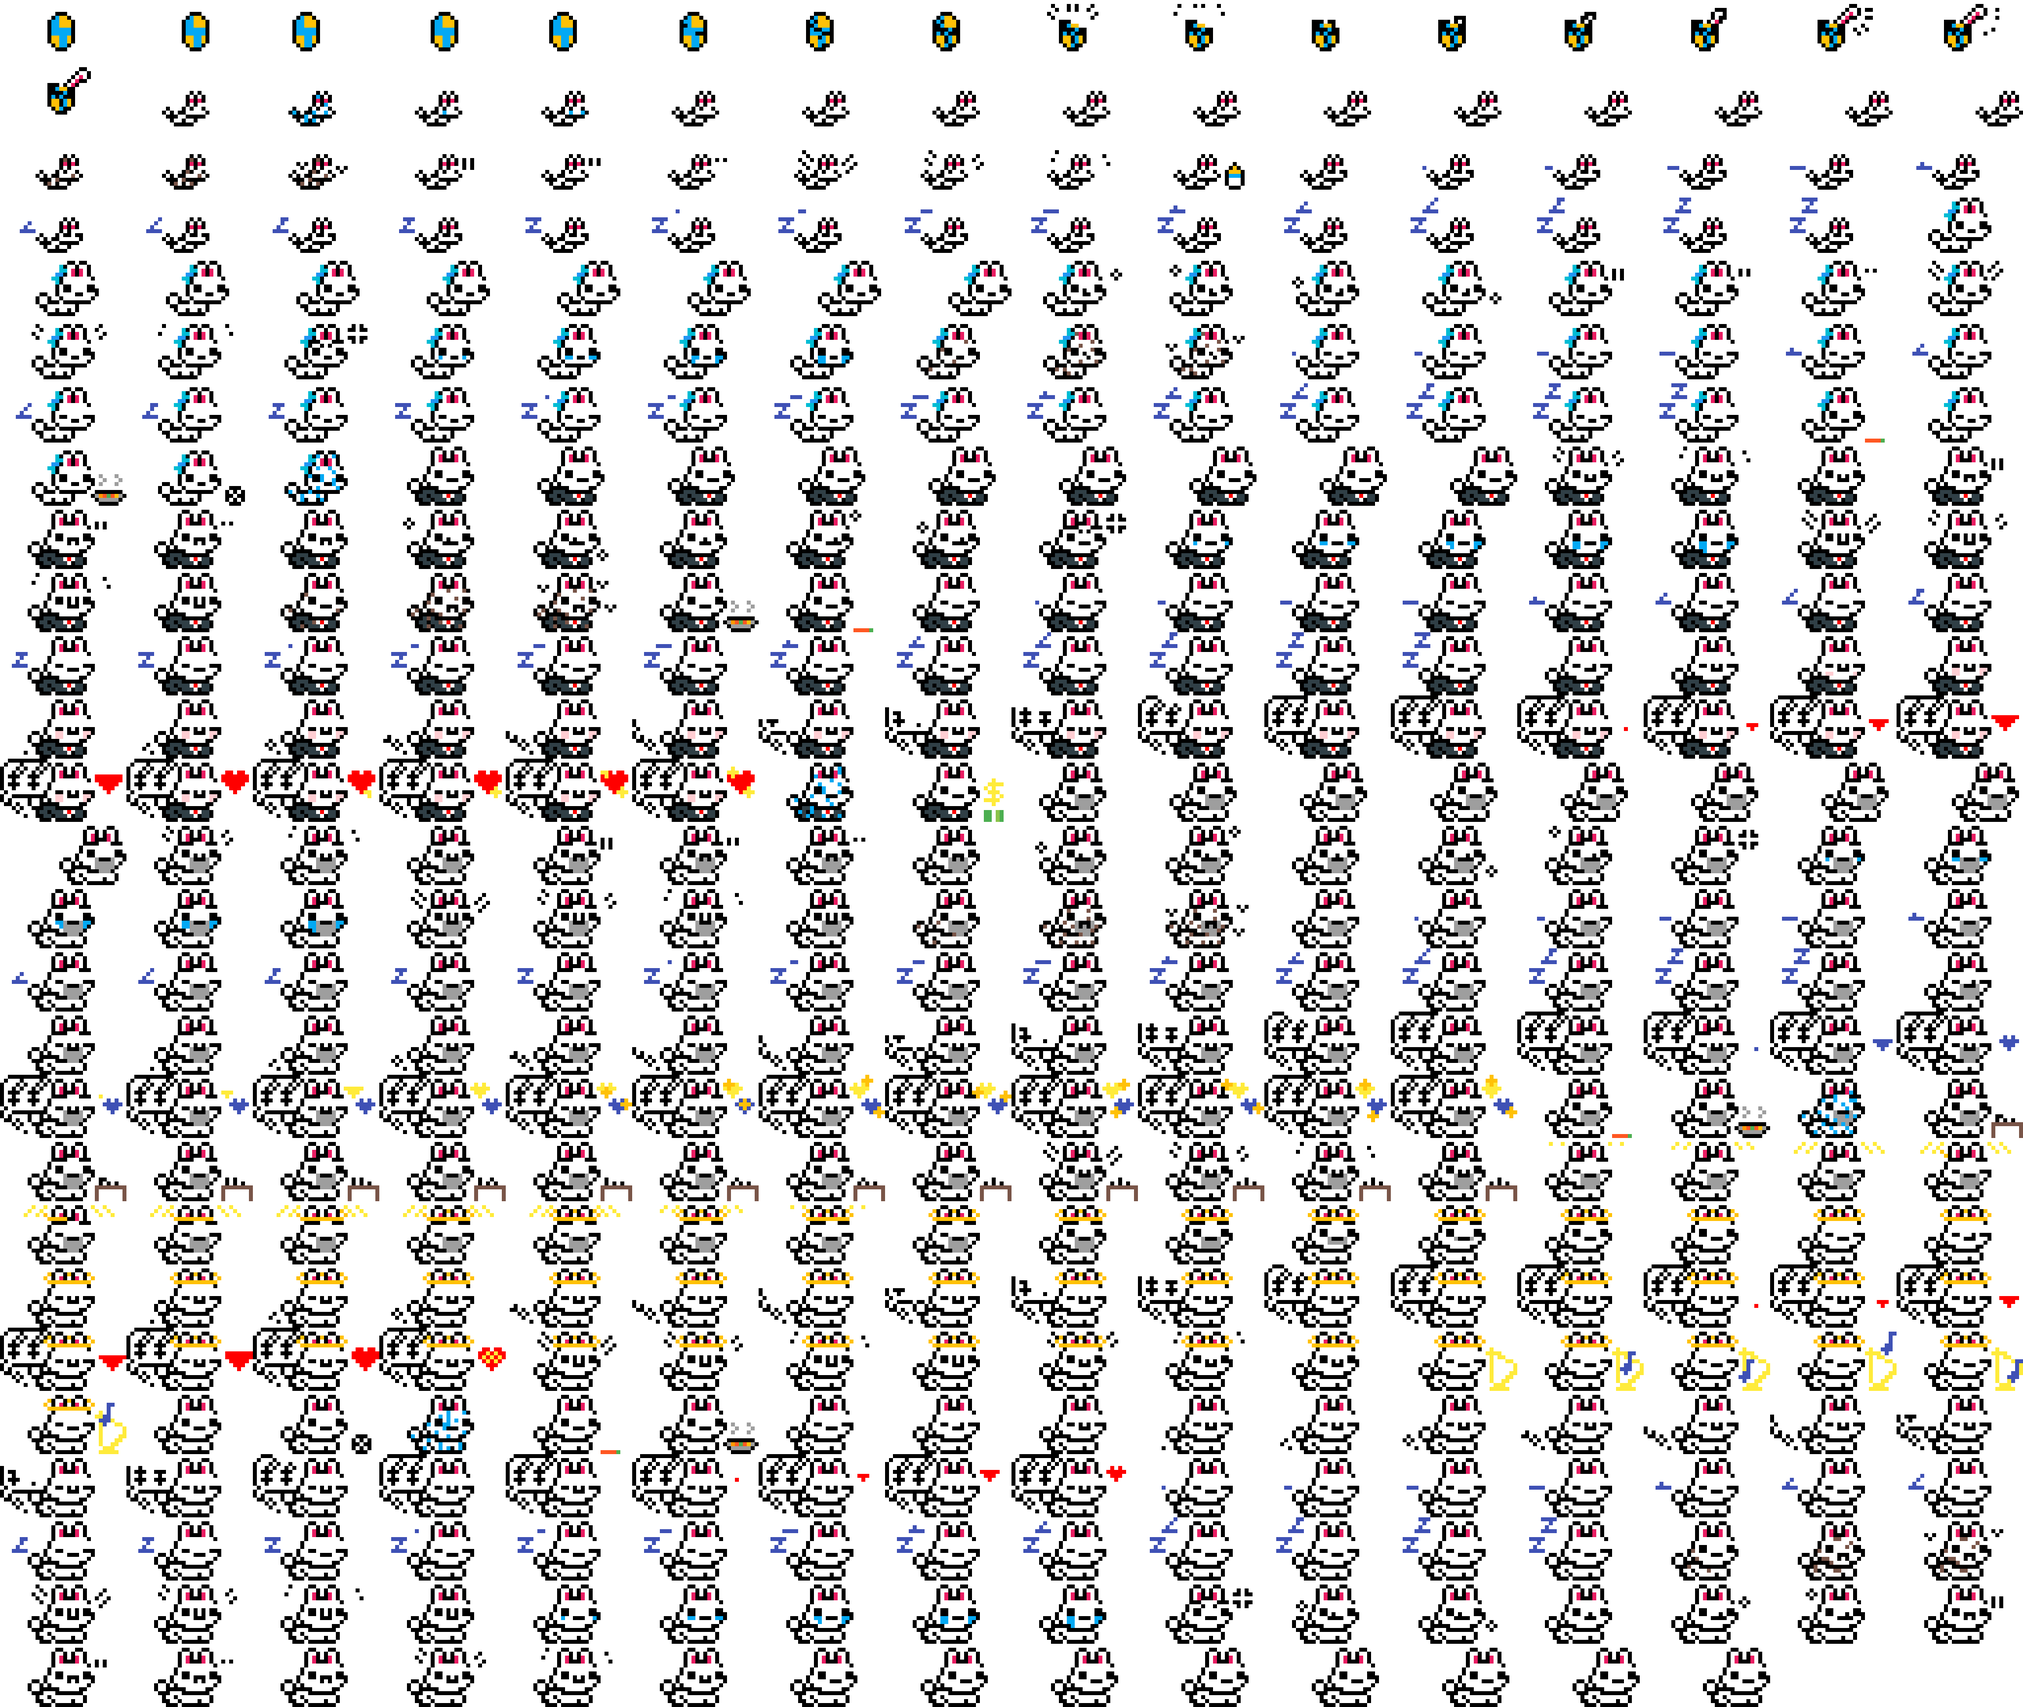
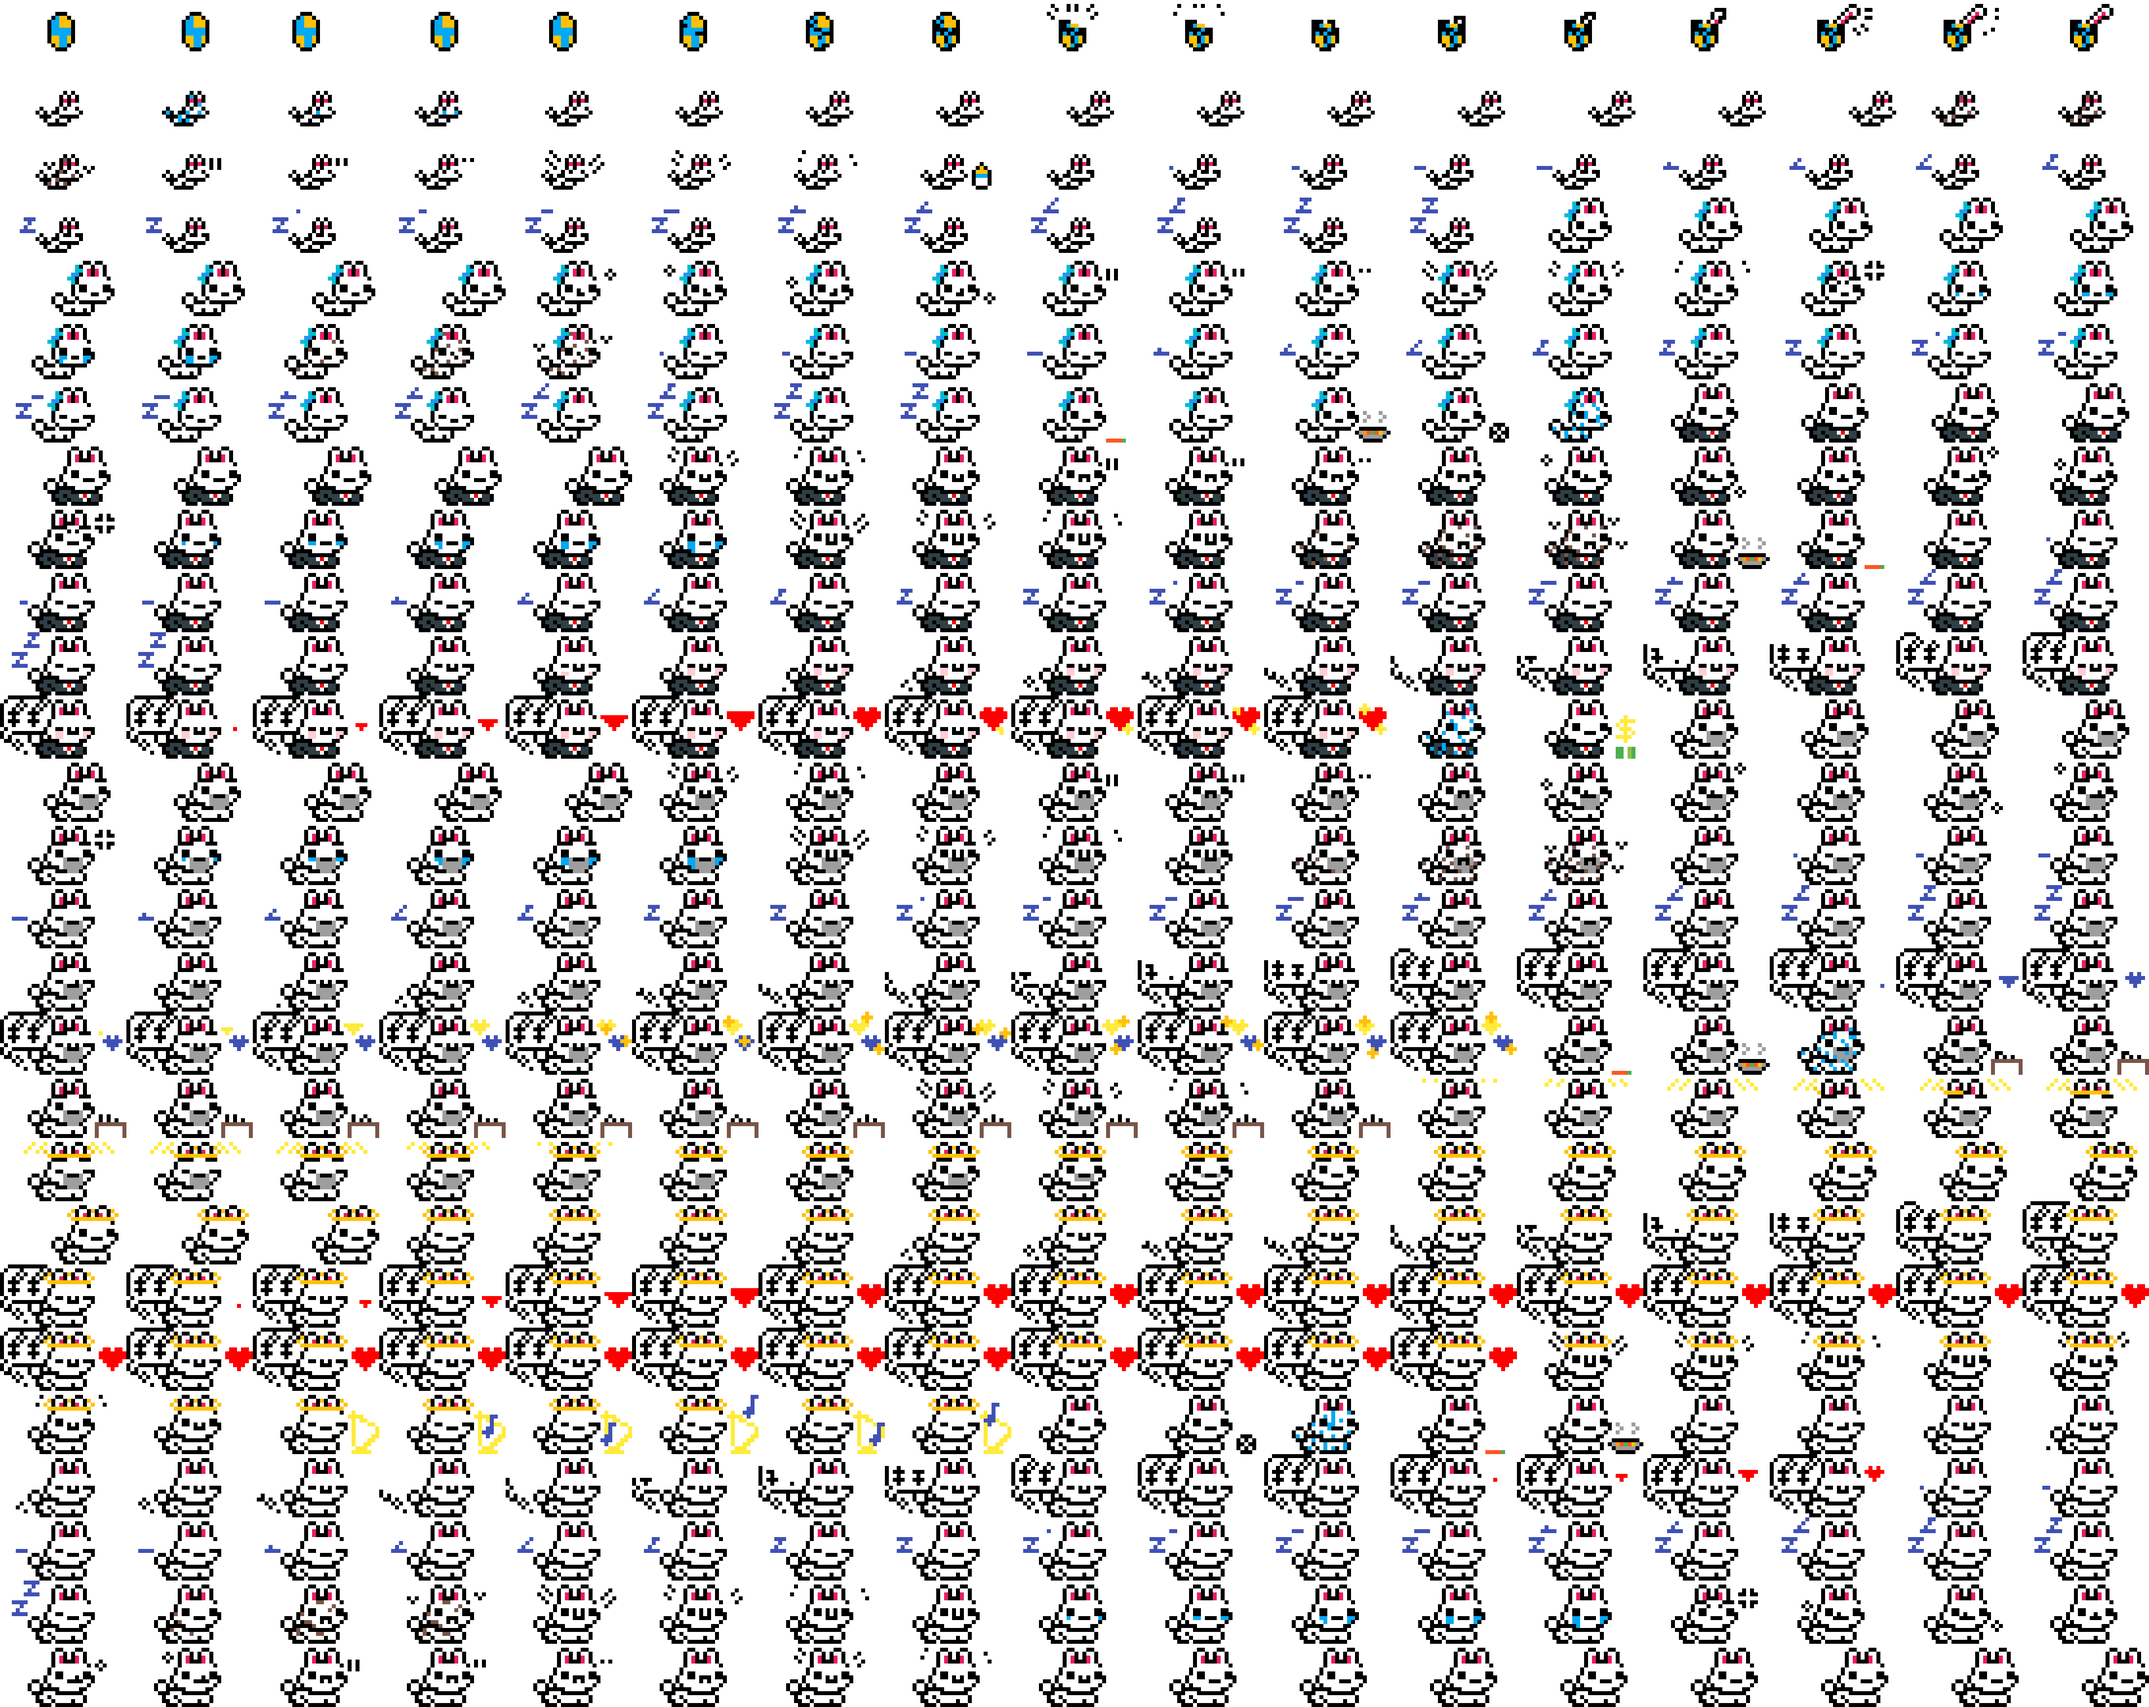
fix: change spritesheet creation method

diff --git a/assets/tailwind.css b/assets/tailwind.css
@@ -160,21 +160,34 @@
   .visible {
     visibility: visible;
   }
-  .flex {
-    display: flex;
+  .static {
+    position: static;
+  }
+  .table {
+    display: table;
   }
   .w-full {
     width: 100%;
   }
+  .border-collapse {
+    border-collapse: collapse;
+  }
   .transform {
     transform: var(--tw-rotate-x,) var(--tw-rotate-y,) var(--tw-rotate-z,) var(--tw-skew-x,) var(--tw-skew-y,);
+  }
+  .resize {
+    resize: both;
+  }
+  .border {
+    border-style: var(--tw-border-style);
+    border-width: 1px;
+  }
+  .underline {
+    text-decoration-line: underline;
   }
   .outline {
     outline-style: var(--tw-outline-style);
     outline-width: 1px;
-  }
-  .filter {
-    filter: var(--tw-blur,) var(--tw-brightness,) var(--tw-contrast,) var(--tw-grayscale,) var(--tw-hue-rotate,) var(--tw-invert,) var(--tw-saturate,) var(--tw-sepia,) var(--tw-drop-shadow,);
   }
 }
 @property --tw-rotate-x {
@@ -197,63 +210,15 @@
   syntax: "*";
   inherits: false;
 }
-@property --tw-outline-style {
+@property --tw-border-style {
   syntax: "*";
   inherits: false;
   initial-value: solid;
 }
-@property --tw-blur {
+@property --tw-outline-style {
   syntax: "*";
   inherits: false;
-}
-@property --tw-brightness {
-  syntax: "*";
-  inherits: false;
-}
-@property --tw-contrast {
-  syntax: "*";
-  inherits: false;
-}
-@property --tw-grayscale {
-  syntax: "*";
-  inherits: false;
-}
-@property --tw-hue-rotate {
-  syntax: "*";
-  inherits: false;
-}
-@property --tw-invert {
-  syntax: "*";
-  inherits: false;
-}
-@property --tw-opacity {
-  syntax: "*";
-  inherits: false;
-}
-@property --tw-saturate {
-  syntax: "*";
-  inherits: false;
-}
-@property --tw-sepia {
-  syntax: "*";
-  inherits: false;
-}
-@property --tw-drop-shadow {
-  syntax: "*";
-  inherits: false;
-}
-@property --tw-drop-shadow-color {
-  syntax: "*";
-  inherits: false;
-}
-@property --tw-drop-shadow-alpha {
-  syntax: "<percentage>";
-  inherits: false;
-  initial-value: 100%;
-}
-@property --tw-drop-shadow-size {
-  syntax: "*";
-  inherits: false;
+  initial-value: solid;
 }
 @layer properties {
   @supports ((-webkit-hyphens: none) and (not (margin-trim: inline))) or ((-moz-orient: inline) and (not (color:rgb(from red r g b)))) {
@@ -263,20 +228,8 @@
       --tw-rotate-z: initial;
       --tw-skew-x: initial;
       --tw-skew-y: initial;
+      --tw-border-style: solid;
       --tw-outline-style: solid;
-      --tw-blur: initial;
-      --tw-brightness: initial;
-      --tw-contrast: initial;
-      --tw-grayscale: initial;
-      --tw-hue-rotate: initial;
-      --tw-invert: initial;
-      --tw-opacity: initial;
-      --tw-saturate: initial;
-      --tw-sepia: initial;
-      --tw-drop-shadow: initial;
-      --tw-drop-shadow-color: initial;
-      --tw-drop-shadow-alpha: 100%;
-      --tw-drop-shadow-size: initial;
     }
   }
 }

diff --git a/src/main.rs b/src/main.rs
@@ -6,7 +6,7 @@ use std::time::Duration;
 const FAVICON: Asset = asset!("/assets/favicon.ico");
 const MAIN_CSS: Asset = asset!("/assets/main.css");
 const SATCHI_MASK: Asset = asset!("/assets/sabigotchi-mask.svg");
-const SPRITE_SHEET: Asset = asset!("/assets/sasa.png");
+const SPRITE_SHEET: Asset = asset!("/assets/sasa.png", AssetOptions::image().with_preload(true));
 
 fn main() {
     dioxus::launch(App);
@@ -38,8 +38,8 @@ fn MainBox() -> Element {
             img { id: "satchi-mask", src: SATCHI_MASK }
             div { id: "div_screen",
                 div { id: "screen", class: "scanlines",
-                    Sprite { anim: true, frame_index: 0, fps: 3, total_frames: 395, cols: 15 }
-                    // fazer sprite de fase ovo (feito), bebê (feito), criança (feito), adolescente (feito), adulto (feito), idoso, anjo
+                    Sprite { anim: false, frame_index: 0, fps: 3, total_frames: 458, cols: 17 }
+                    
                 }
             }
             div { id: "control",
@@ -112,7 +112,7 @@ fn ArcText(text: String) -> Element {
 }
 
 #[component]
-fn Sprite(anim: bool, frame_index: u8, fps: u32, total_frames: u32, cols: u32) -> Element {
+fn Sprite(anim: bool, frame_index: u16, fps: u32, total_frames: u32, cols: u32) -> Element {
     let mut auto_frame = use_signal(|| 0u32);
 
     use_interval(Duration::from_millis(1000 / fps as u64), move |_| {
